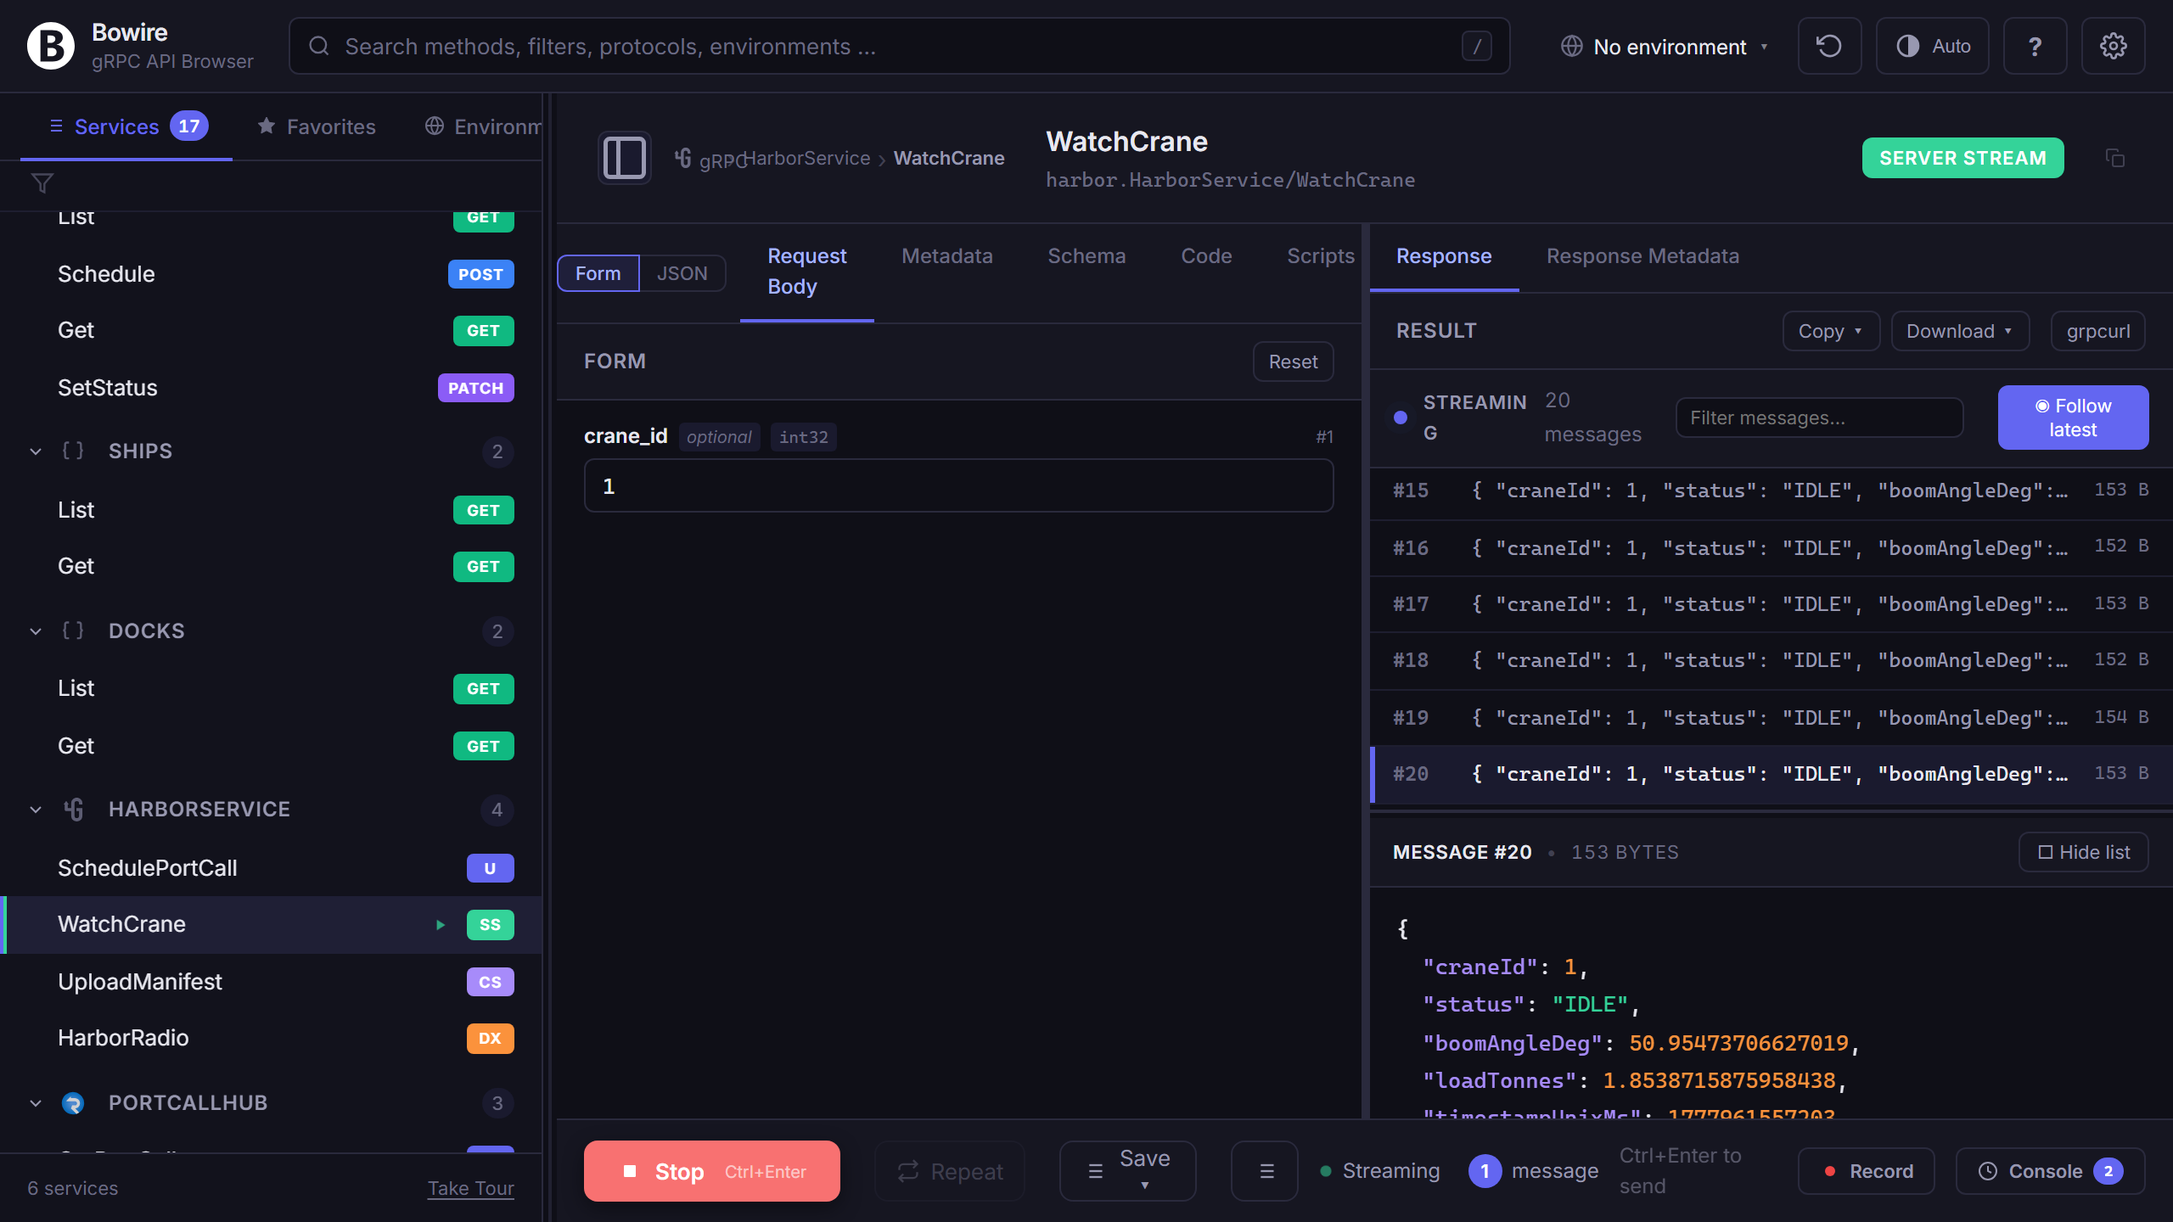
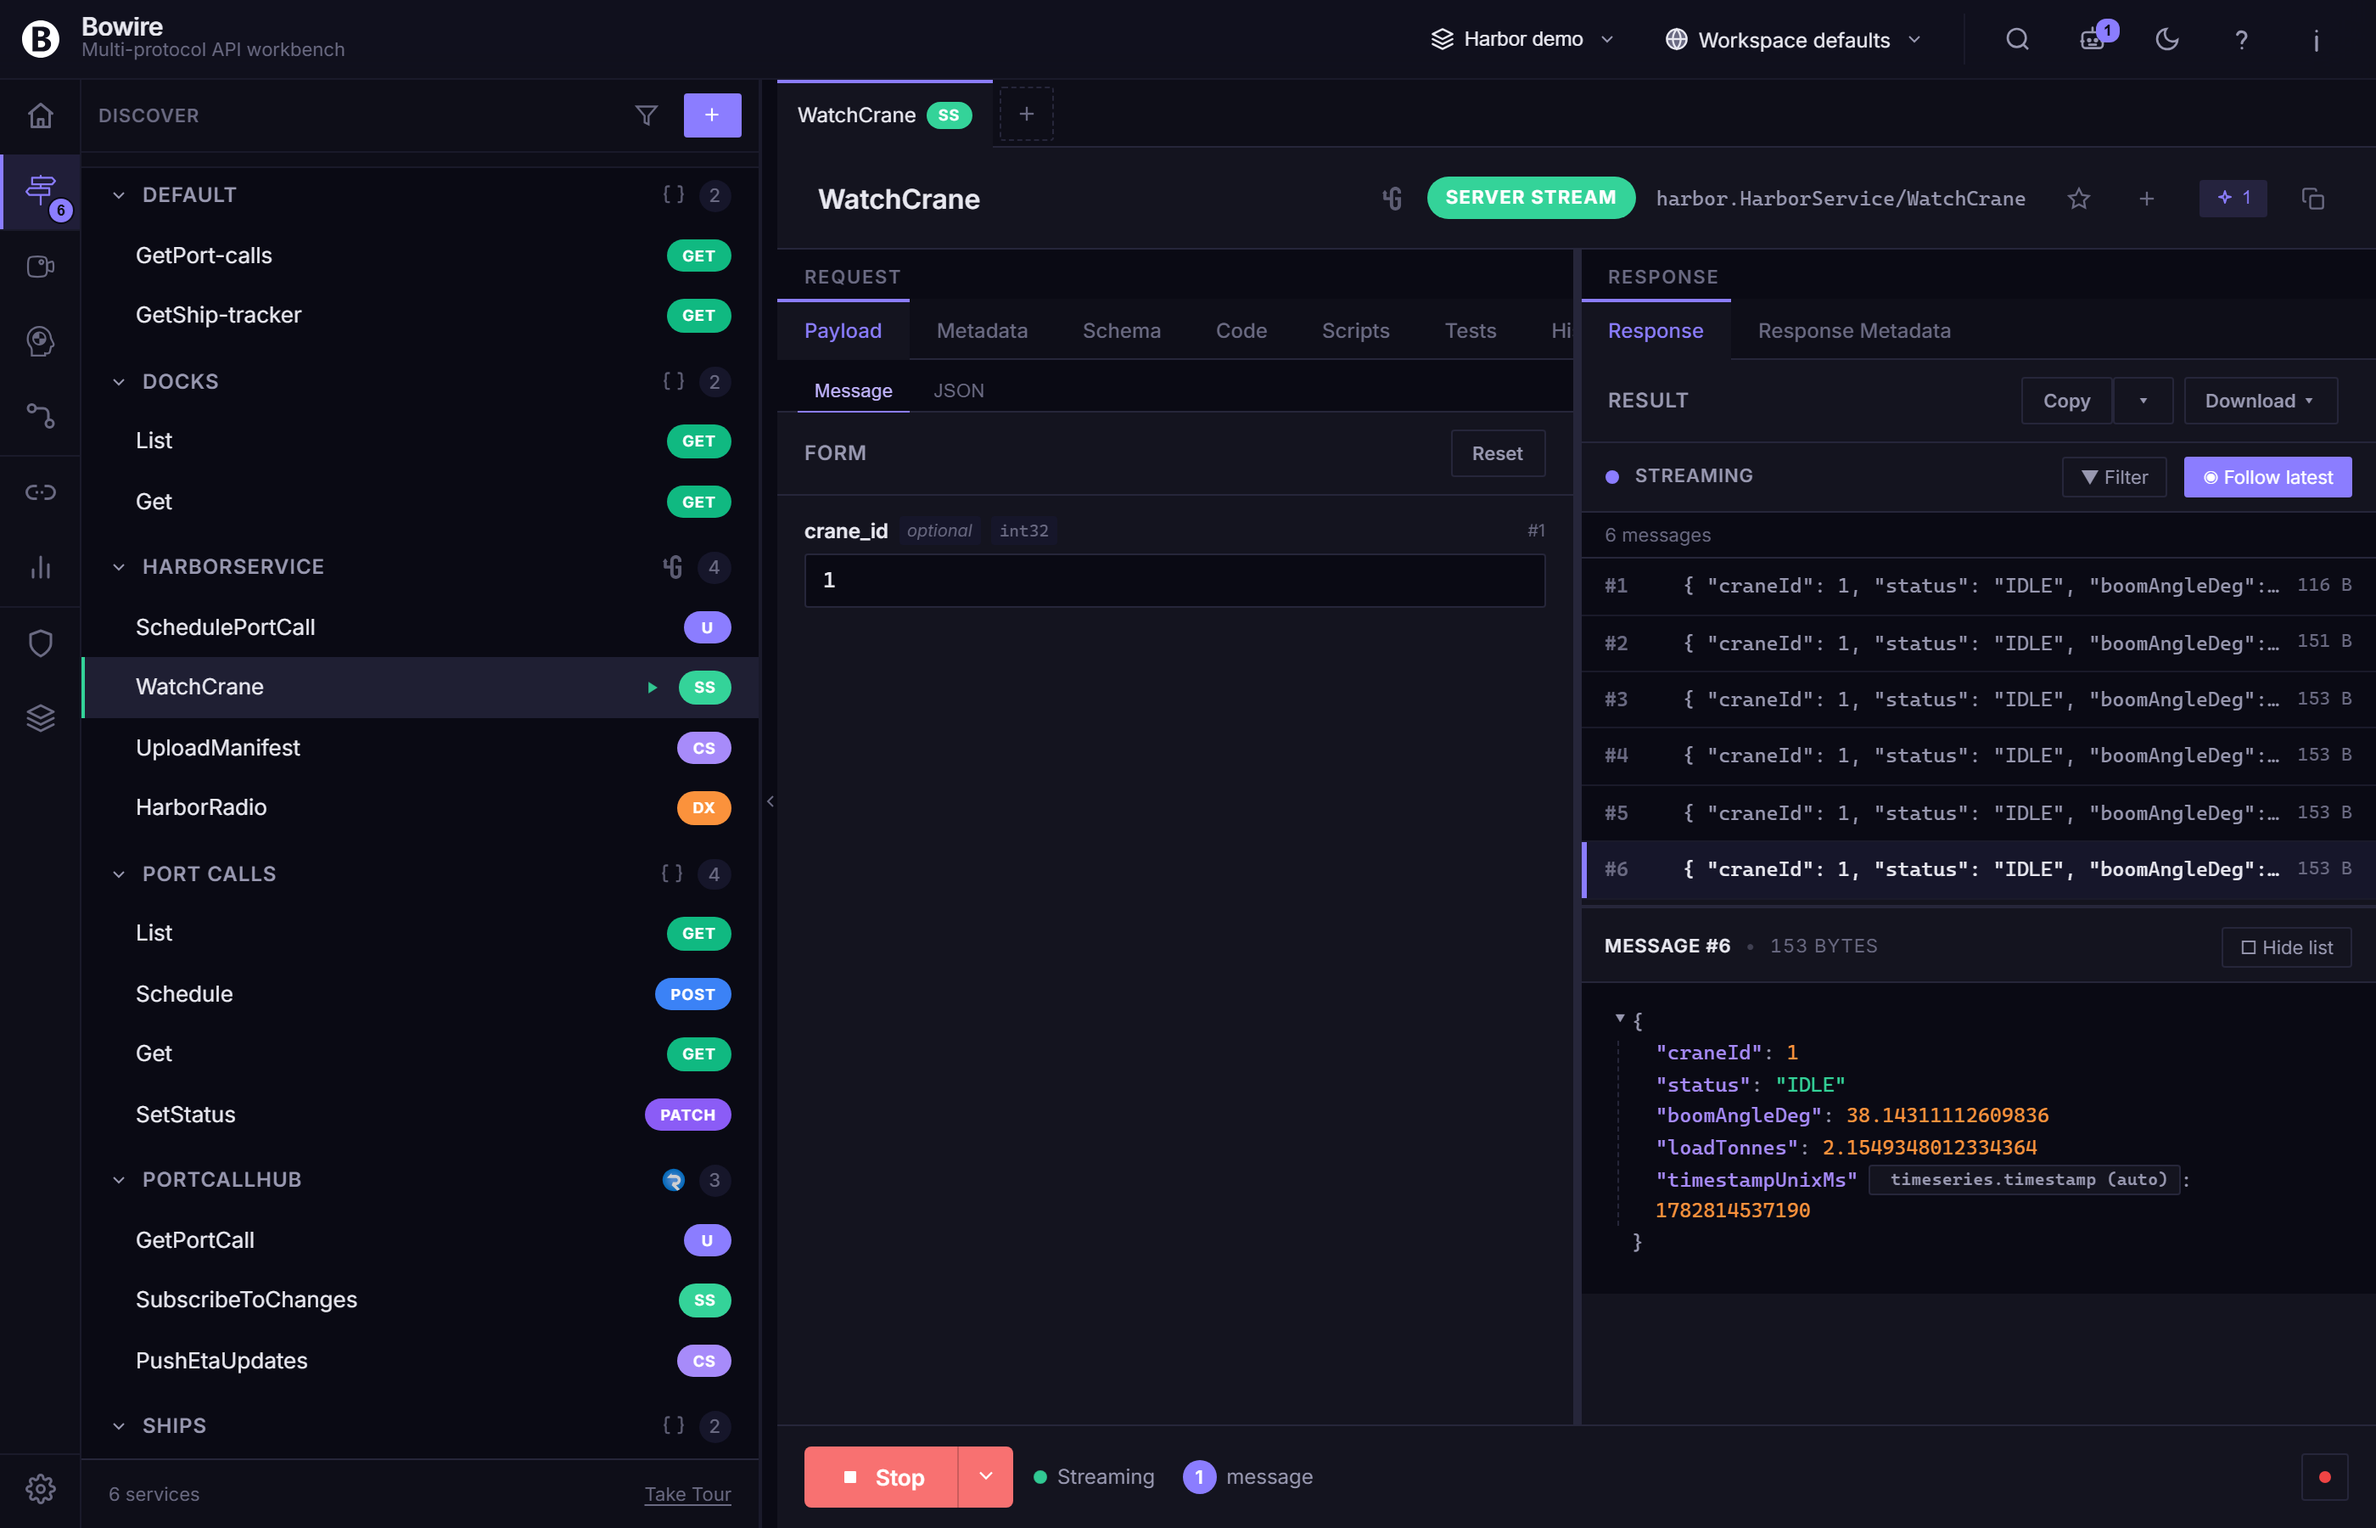
docs(screenshots): refresh ready.png + streaming-grpc for v2.1 marquee
ready.png is the headline asset — README NuGet banner + bowire.io hero
+ features / quickstart / screenshots / usp page references. Previous
PNG was v2.0-era (no rail strip, old terminology). New shot is the
Combined Harbor sample with rail strip visible, Discover active,
HarborService tree expanded, GET /api/docks executed, JSON tree
response card rendered.

streaming-grpc-{dark,light}.png show WatchCrane server stream against
the Combined Harbor sample — SERVER STREAM badge, count pill, six
accumulated frames, message body. Captures the v2.1 stream-card shape.

Other streaming-{akka,dis,graphql,kafka,mqtt}-{dark,light}.png pairs
skipped — those servers live in the Bowire.Samples sibling repo and
weren't running. Existing PNGs untouched; refresh from that repo.

capture-marquee.js is its own script — distinct lifecycle from
capture-v2-1.js (marquee refreshes per release, v2-1/ is the
landing-page surface set tied to that release's narrative).

diff --git a/scripts/screenshots/capture-marquee.js b/scripts/screenshots/capture-marquee.js
@@ -1,0 +1,329 @@
+/**
+ * Refresh Bowire's highest-impact marquee screenshot assets for a release.
+ *
+ * Distinct lifecycle from capture-v2-1.js: marquee assets refresh per
+ * release (this script), v2-1/* are landing-page surfaces tied to that
+ * release's narrative. We keep them separate so a v2.1 -> v2.2 refresh
+ * doesn't churn v2-1/.
+ *
+ * Targets (under site/assets/images/screenshots/):
+ *   ready.png                  Single most-seen Bowire shot — populated
+ *                              workbench, rail strip visible, Discover
+ *                              active, response card rendered.
+ *   streaming-grpc-dark.png    gRPC streaming subscription with state
+ *   streaming-grpc-light.png   badge + count pill + accumulating frames.
+ *
+ * Skipped (server not reachable from this worktree):
+ *   streaming-akka-{dark,light}.png
+ *   streaming-dis-{dark,light}.png
+ *   streaming-graphql-{dark,light}.png
+ *   streaming-kafka-{dark,light}.png
+ *   streaming-mqtt-{dark,light}.png
+ * Those sample servers live in the Bowire.Samples sibling repo. Run
+ * this script there (or wire the samples up locally) to refresh them.
+ *
+ * Operator MUST already have these processes running:
+ *   http://localhost:5180          Tool standalone (workbench at /)
+ *   https://localhost:5101/bowire  Combined Harbor sample
+ *   http://localhost:5181/bowire   Sample.Embedded (REST + Map)
+ *   http://localhost:5182          Sample.TacticalApi (gRPC h2c)
+ *
+ * If the Tool standalone (5180) is down we fall back to the Combined
+ * sample for the ready.png shot — same workbench surface, same v2.1
+ * visual signals — and log the substitution.
+ */
+
+const path = require('path');
+const fs = require('fs');
+
+let chromium;
+try {
+    chromium = require('@playwright/test').chromium;
+} catch (e) {
+    console.error('[bail] @playwright/test not available:', e.message);
+    process.exit(2);
+}
+
+// TWO `..` hops from __dirname — same fix that landed in record-demo /
+// build-activity-snapshot / build-docs-pdf around 9fa1a1c.
+const OUT = path.resolve(__dirname, '..', '..', 'site', 'assets', 'images', 'screenshots');
+fs.mkdirSync(OUT, { recursive: true });
+
+const TOOL = 'http://localhost:5180';
+const COMBINED_BOWIRE = 'https://localhost:5101/bowire';
+const COMBINED_ROOT = 'https://localhost:5101/';
+
+const WIDTH = 1400;
+const HEIGHT = 900;
+const DSF = 2;
+
+function log(msg) { console.log(new Date().toISOString().slice(11, 19), msg); }
+
+function outPath(name) { return path.join(OUT, name + '.png'); }
+
+async function waitForAny(page, selectors, timeoutMs) {
+    const deadline = Date.now() + timeoutMs;
+    while (Date.now() < deadline) {
+        for (const sel of selectors) {
+            const loc = page.locator(sel).first();
+            if (await loc.isVisible().catch(() => false)) return sel;
+        }
+        await page.waitForTimeout(150);
+    }
+    return null;
+}
+
+/** Seed localStorage + reload so the workbench boots into a workspace
+ *  with the given source URL bound, rail mode set, and theme picked. */
+async function seed(page, sampleUrl, railMode, theme) {
+    railMode = railMode || 'discover';
+    theme = theme || 'dark';
+    await page.evaluate(({ sampleUrl, railMode, theme }) => {
+        try {
+            const id = 'harbor';
+            localStorage.setItem('bowire_workspaces', JSON.stringify([{
+                id, name: 'Harbor demo', color: 'sky', createdAt: 1_700_000_000_000
+            }]));
+            localStorage.setItem('bowire_active_workspace_id', id);
+            localStorage.setItem('bowire_ws_' + id + '_server_urls', JSON.stringify([sampleUrl]));
+            localStorage.setItem('bowire_rail_mode', railMode);
+            localStorage.setItem('bowire_theme_pref', theme);
+        } catch { /* ignore */ }
+    }, { sampleUrl, railMode, theme });
+    await page.reload({ waitUntil: 'domcontentloaded' });
+    // Don't hard-fail on bowire-app-ready — Sample.Embedded has a known
+    // boot-error path that blocks it. Method-item attachment is the
+    // reliable signal that discovery finished.
+    await page.waitForSelector('#bowire-app', { timeout: 20000 });
+    await page.waitForTimeout(400);
+}
+
+async function expandAllServices(page) {
+    const groups = await page.locator('.bowire-service-group').all();
+    for (const group of groups) {
+        const chev = group.locator('.bowire-service-chevron').first();
+        const cls = await chev.getAttribute('class').catch(() => '');
+        if (!cls || !cls.includes('expanded')) {
+            const header = group.locator('.bowire-service-header').first();
+            await header.click().catch(() => {});
+            await page.waitForTimeout(120);
+        }
+    }
+    await page.waitForTimeout(400);
+}
+
+// ─── Captures ──────────────────────────────────────────────────────
+
+/** ready.png — populated workbench with all v2.1 visual signals.
+ *  Rail strip left, Discover active, services in sidebar, one method
+ *  selected, a meaningful response card rendered. Full-pane. */
+async function captureReady(page, host, theme) {
+    log(`ready: navigating ${host}, theme=${theme}`);
+    const bowirePath = host === TOOL ? '/' : '/bowire';
+    await page.goto(host + bowirePath, { waitUntil: 'domcontentloaded' });
+    // The Tool standalone has no /bowire prefix — the workbench is at /.
+    // Sample URL is always the combined Harbor sample (richer surface).
+    await seed(page, COMBINED_ROOT, 'discover', theme);
+    await page.waitForSelector('.bowire-method-item', { state: 'attached', timeout: 45000 });
+    await page.waitForTimeout(1000);
+    await expandAllServices(page);
+
+    // Prefer a GET / List style method that returns a meaningful JSON
+    // payload. Try a small ranked list of candidates.
+    const candidates = ['List', 'GetShipTracker', 'GetShips', 'GetDocks', 'GetHarbor', 'Get'];
+    let picked = null;
+    for (const text of candidates) {
+        const m = page.locator('.bowire-method-item', { hasText: text }).first();
+        if (await m.isVisible().catch(() => false)) { picked = m; break; }
+    }
+    if (!picked) {
+        // Fall back: first visible method item, whatever it is.
+        picked = page.locator('.bowire-method-item').first();
+    }
+    if (!(await picked.isVisible().catch(() => false))) {
+        throw new Error('no method item visible to click');
+    }
+    await picked.click();
+    await page.waitForTimeout(600);
+    const exec = page.locator('.bowire-execute-btn, #bowire-execute-btn').first();
+    if (!(await exec.isEnabled().catch(() => false))) {
+        throw new Error('execute button not enabled');
+    }
+    await exec.click();
+    const hit = await waitForAny(page, [
+        '.bowire-response-output.is-interactive',
+        '.bowire-response-output.error',
+        '.bowire-json-tree',
+        '.bowire-response-output:has(pre)'
+    ], 10000);
+    if (!hit) throw new Error('response never landed');
+    await page.waitForTimeout(900);
+    await page.screenshot({ path: outPath('ready') });
+    log('ready: OK');
+}
+
+/** streaming-grpc-{theme}.png — gRPC server-streaming subscription with
+ *  state badge + count pill + accumulating frames. Combined sample's
+ *  HarborService.WatchCrane is a 1 Hz server stream. */
+async function captureStreamingGrpc(page, theme) {
+    log(`streaming-grpc-${theme}: navigate Combined`);
+    await page.goto(COMBINED_BOWIRE, { waitUntil: 'domcontentloaded' });
+    await seed(page, COMBINED_ROOT, 'discover', theme);
+    await page.waitForSelector('.bowire-method-item', { state: 'attached', timeout: 45000 });
+    await page.waitForTimeout(1000);
+    await expandAllServices(page);
+
+    const candidates = ['WatchCrane', 'Subscribe', 'Watch'];
+    let picked = null;
+    for (const text of candidates) {
+        const m = page.locator('.bowire-method-item', { hasText: text }).first();
+        if (await m.isVisible().catch(() => false)) { picked = m; break; }
+    }
+    if (!picked) throw new Error('no streaming method visible');
+    await picked.scrollIntoViewIfNeeded();
+    await picked.click();
+    await page.waitForTimeout(800);
+
+    // WatchCrane takes a craneId — record-demo feeds "1".
+    const craneId = page.locator('input[data-field-key="craneId"]').first();
+    if (await craneId.isVisible().catch(() => false)) {
+        await craneId.fill('1').catch(() => {});
+        await page.waitForTimeout(200);
+    }
+    const exec = page.locator('.bowire-execute-btn, #bowire-execute-btn').first();
+    if (!(await exec.isEnabled().catch(() => false))) {
+        throw new Error('execute / subscribe button not enabled');
+    }
+    await exec.click();
+    const firstHit = await waitForAny(page, [
+        '.bowire-stream-list-item',
+        '.bowire-stream-list-pane .bowire-stream-list-item'
+    ], 12000);
+    if (!firstHit) throw new Error('no stream frames within 12s');
+    // Wait for ≥3 frames so the count badge shows a meaningful number.
+    const deadline = Date.now() + 9000;
+    while (Date.now() < deadline) {
+        const count = await page.locator('.bowire-stream-list-item').count().catch(() => 0);
+        if (count >= 3) break;
+        await page.waitForTimeout(300);
+    }
+    await page.waitForTimeout(500);
+
+    // Wide clip on the response pane so the badge + count + stream rows
+    // are all in frame, but the sidebar + rail context still reads. The
+    // rail is 48px wide + sidebar ~260px — start clip slightly inside
+    // the rail so the active mode dot is in shot.
+    await page.screenshot({
+        path: outPath('streaming-grpc-' + theme),
+        clip: { x: 0, y: 0, width: WIDTH, height: HEIGHT }
+    });
+
+    // Stop the stream so it doesn't keep ticking + skewing the next shot.
+    const cancel = page.locator('.bowire-cancel-btn, #bowire-cancel-btn').first();
+    if (await cancel.isVisible().catch(() => false)) {
+        await cancel.click().catch(() => {});
+        await page.waitForTimeout(300);
+    }
+    log(`streaming-grpc-${theme}: OK`);
+}
+
+// ─── Driver ────────────────────────────────────────────────────────
+
+(async () => {
+    log('Launching Chromium…');
+    const browser = await chromium.launch({
+        headless: true,
+        args: ['--ignore-certificate-errors']
+    });
+    const results = [];
+
+    // 1) ready.png — capture against the Combined sample because the
+    //    workbench mounted there can discover its own origin (CORS-free
+    //    + same self-signed cert chain). The Tool standalone at :5180
+    //    runs the same workbench surface but can't discover :5101
+    //    cross-origin without browser-side CORS configuration, so it
+    //    paints the empty-state instead. Same v2.1 visual signals
+    //    either way — rail strip, sidebar, response card.
+    {
+        const context = await browser.newContext({
+            viewport: { width: WIDTH, height: HEIGHT },
+            deviceScaleFactor: DSF,
+            ignoreHTTPSErrors: true,
+            colorScheme: 'dark'
+        });
+        const page = await context.newPage();
+        await page.emulateMedia({ colorScheme: 'dark' });
+        page.on('console', msg => {
+            if (msg.type() === 'error') {
+                const t = msg.text();
+                if (t.length < 200) log(`[browser ERR ready] ${t}`);
+            }
+        });
+        try {
+            await captureReady(page, 'https://localhost:5101', 'dark');
+            results.push({ name: 'ready.png', ok: true, host: COMBINED_BOWIRE });
+        } catch (e) {
+            log(`[FAIL ready] ${e.message}`);
+            try { await page.screenshot({ path: outPath('ready.fail-debug') }); } catch {}
+            results.push({ name: 'ready.png', ok: false, err: e.message });
+        }
+        await context.close();
+    }
+
+    // 2) streaming-grpc-{dark,light}.png — fresh context per theme so
+    //    the colorScheme + emulateMedia take effect cleanly.
+    for (const theme of ['dark', 'light']) {
+        const context = await browser.newContext({
+            viewport: { width: WIDTH, height: HEIGHT },
+            deviceScaleFactor: DSF,
+            ignoreHTTPSErrors: true,
+            colorScheme: theme
+        });
+        const page = await context.newPage();
+        await page.emulateMedia({ colorScheme: theme });
+        page.on('console', msg => {
+            if (msg.type() === 'error') {
+                const t = msg.text();
+                if (t.length < 200) log(`[browser ERR streaming-${theme}] ${t}`);
+            }
+        });
+        try {
+            await captureStreamingGrpc(page, theme);
+            results.push({ name: `streaming-grpc-${theme}.png`, ok: true });
+        } catch (e) {
+            log(`[FAIL streaming-grpc-${theme}] ${e.message}`);
+            try { await page.screenshot({ path: outPath(`streaming-grpc-${theme}.fail-debug`) }); } catch {}
+            results.push({ name: `streaming-grpc-${theme}.png`, ok: false, err: e.message });
+        }
+        await context.close();
+    }
+
+    // 3) Skipped protocols — logged for the report.
+    const skipped = ['akka', 'dis', 'graphql', 'kafka', 'mqtt'];
+    for (const proto of skipped) {
+        results.push({
+            name: `streaming-${proto}-{dark,light}.png`,
+            ok: false,
+            skipped: true,
+            err: 'server not reachable from this worktree (Bowire.Samples sibling not running)'
+        });
+    }
+
+    await browser.close();
+
+    log('Summary:');
+    for (const r of results) {
+        if (r.skipped) {
+            log(`  SKIP ${r.name} — ${r.err}`);
+        } else {
+            log(`  ${r.ok ? 'OK  ' : 'FAIL'} ${r.name}${r.host ? ' [' + r.host + ']' : ''}${r.err ? ' — ' + r.err : ''}`);
+        }
+    }
+    const okCount = results.filter(r => r.ok).length;
+    const failCount = results.filter(r => !r.ok && !r.skipped).length;
+    log(`${okCount} captured, ${failCount} failed, ${results.filter(r => r.skipped).length} skipped.`);
+    process.exit(okCount > 0 ? 0 : 1);
+})().catch(e => {
+    console.error('[fatal]', e && e.stack || e);
+    process.exit(1);
+});
